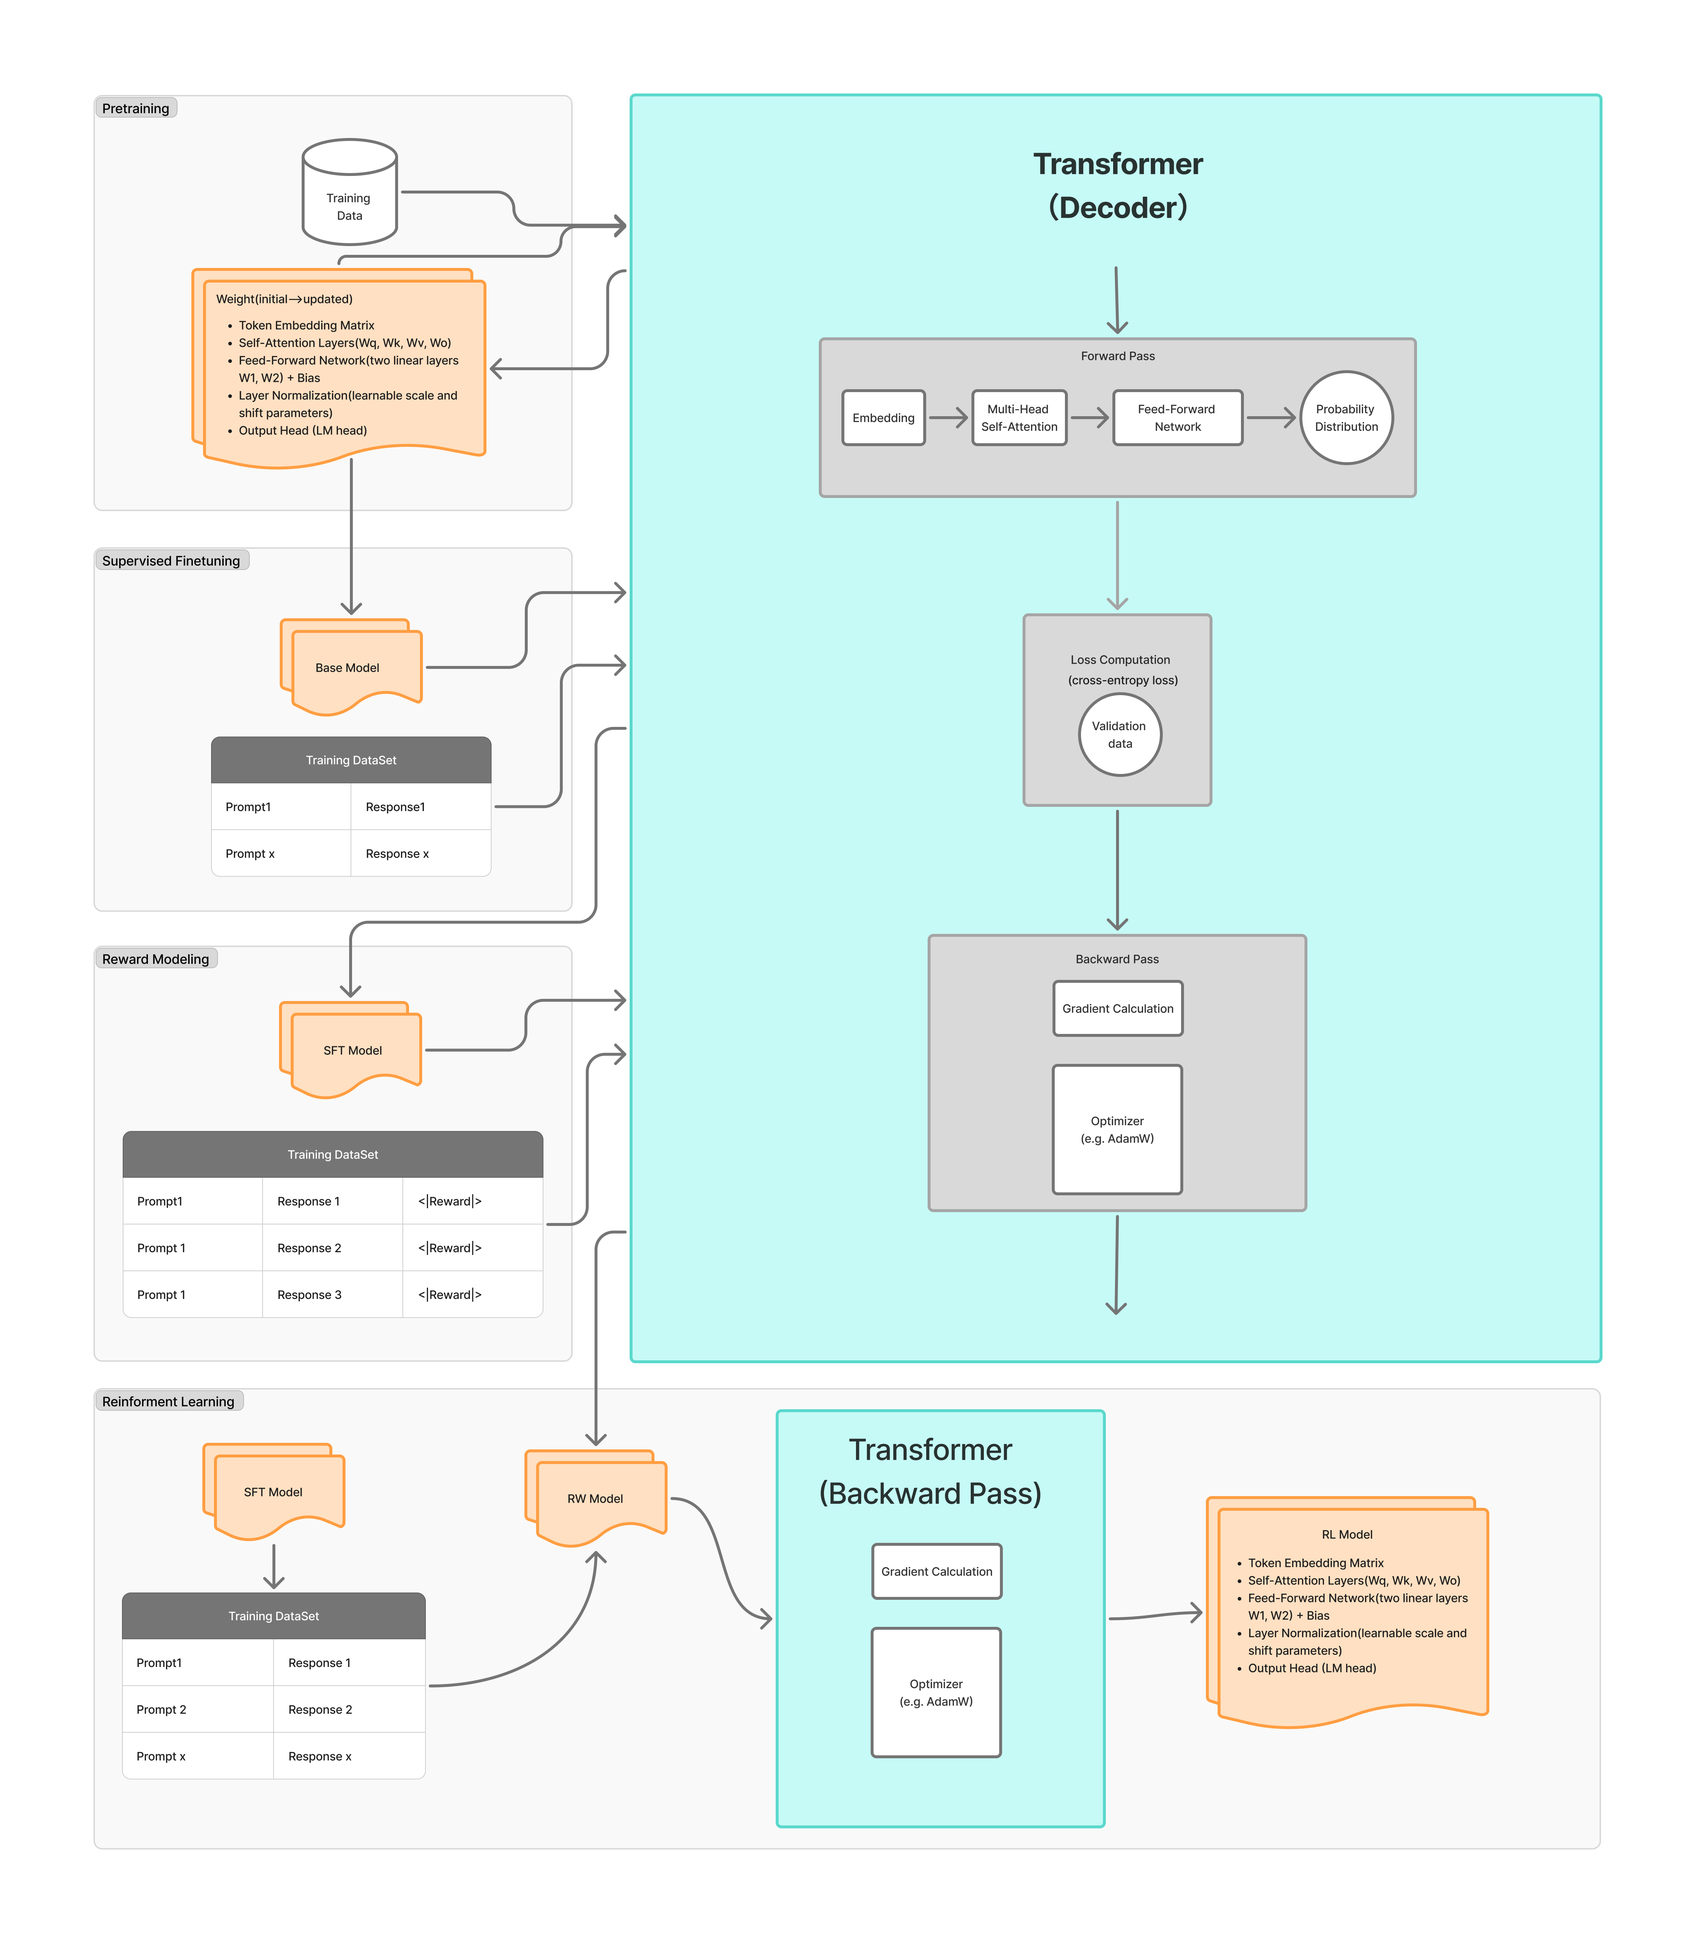
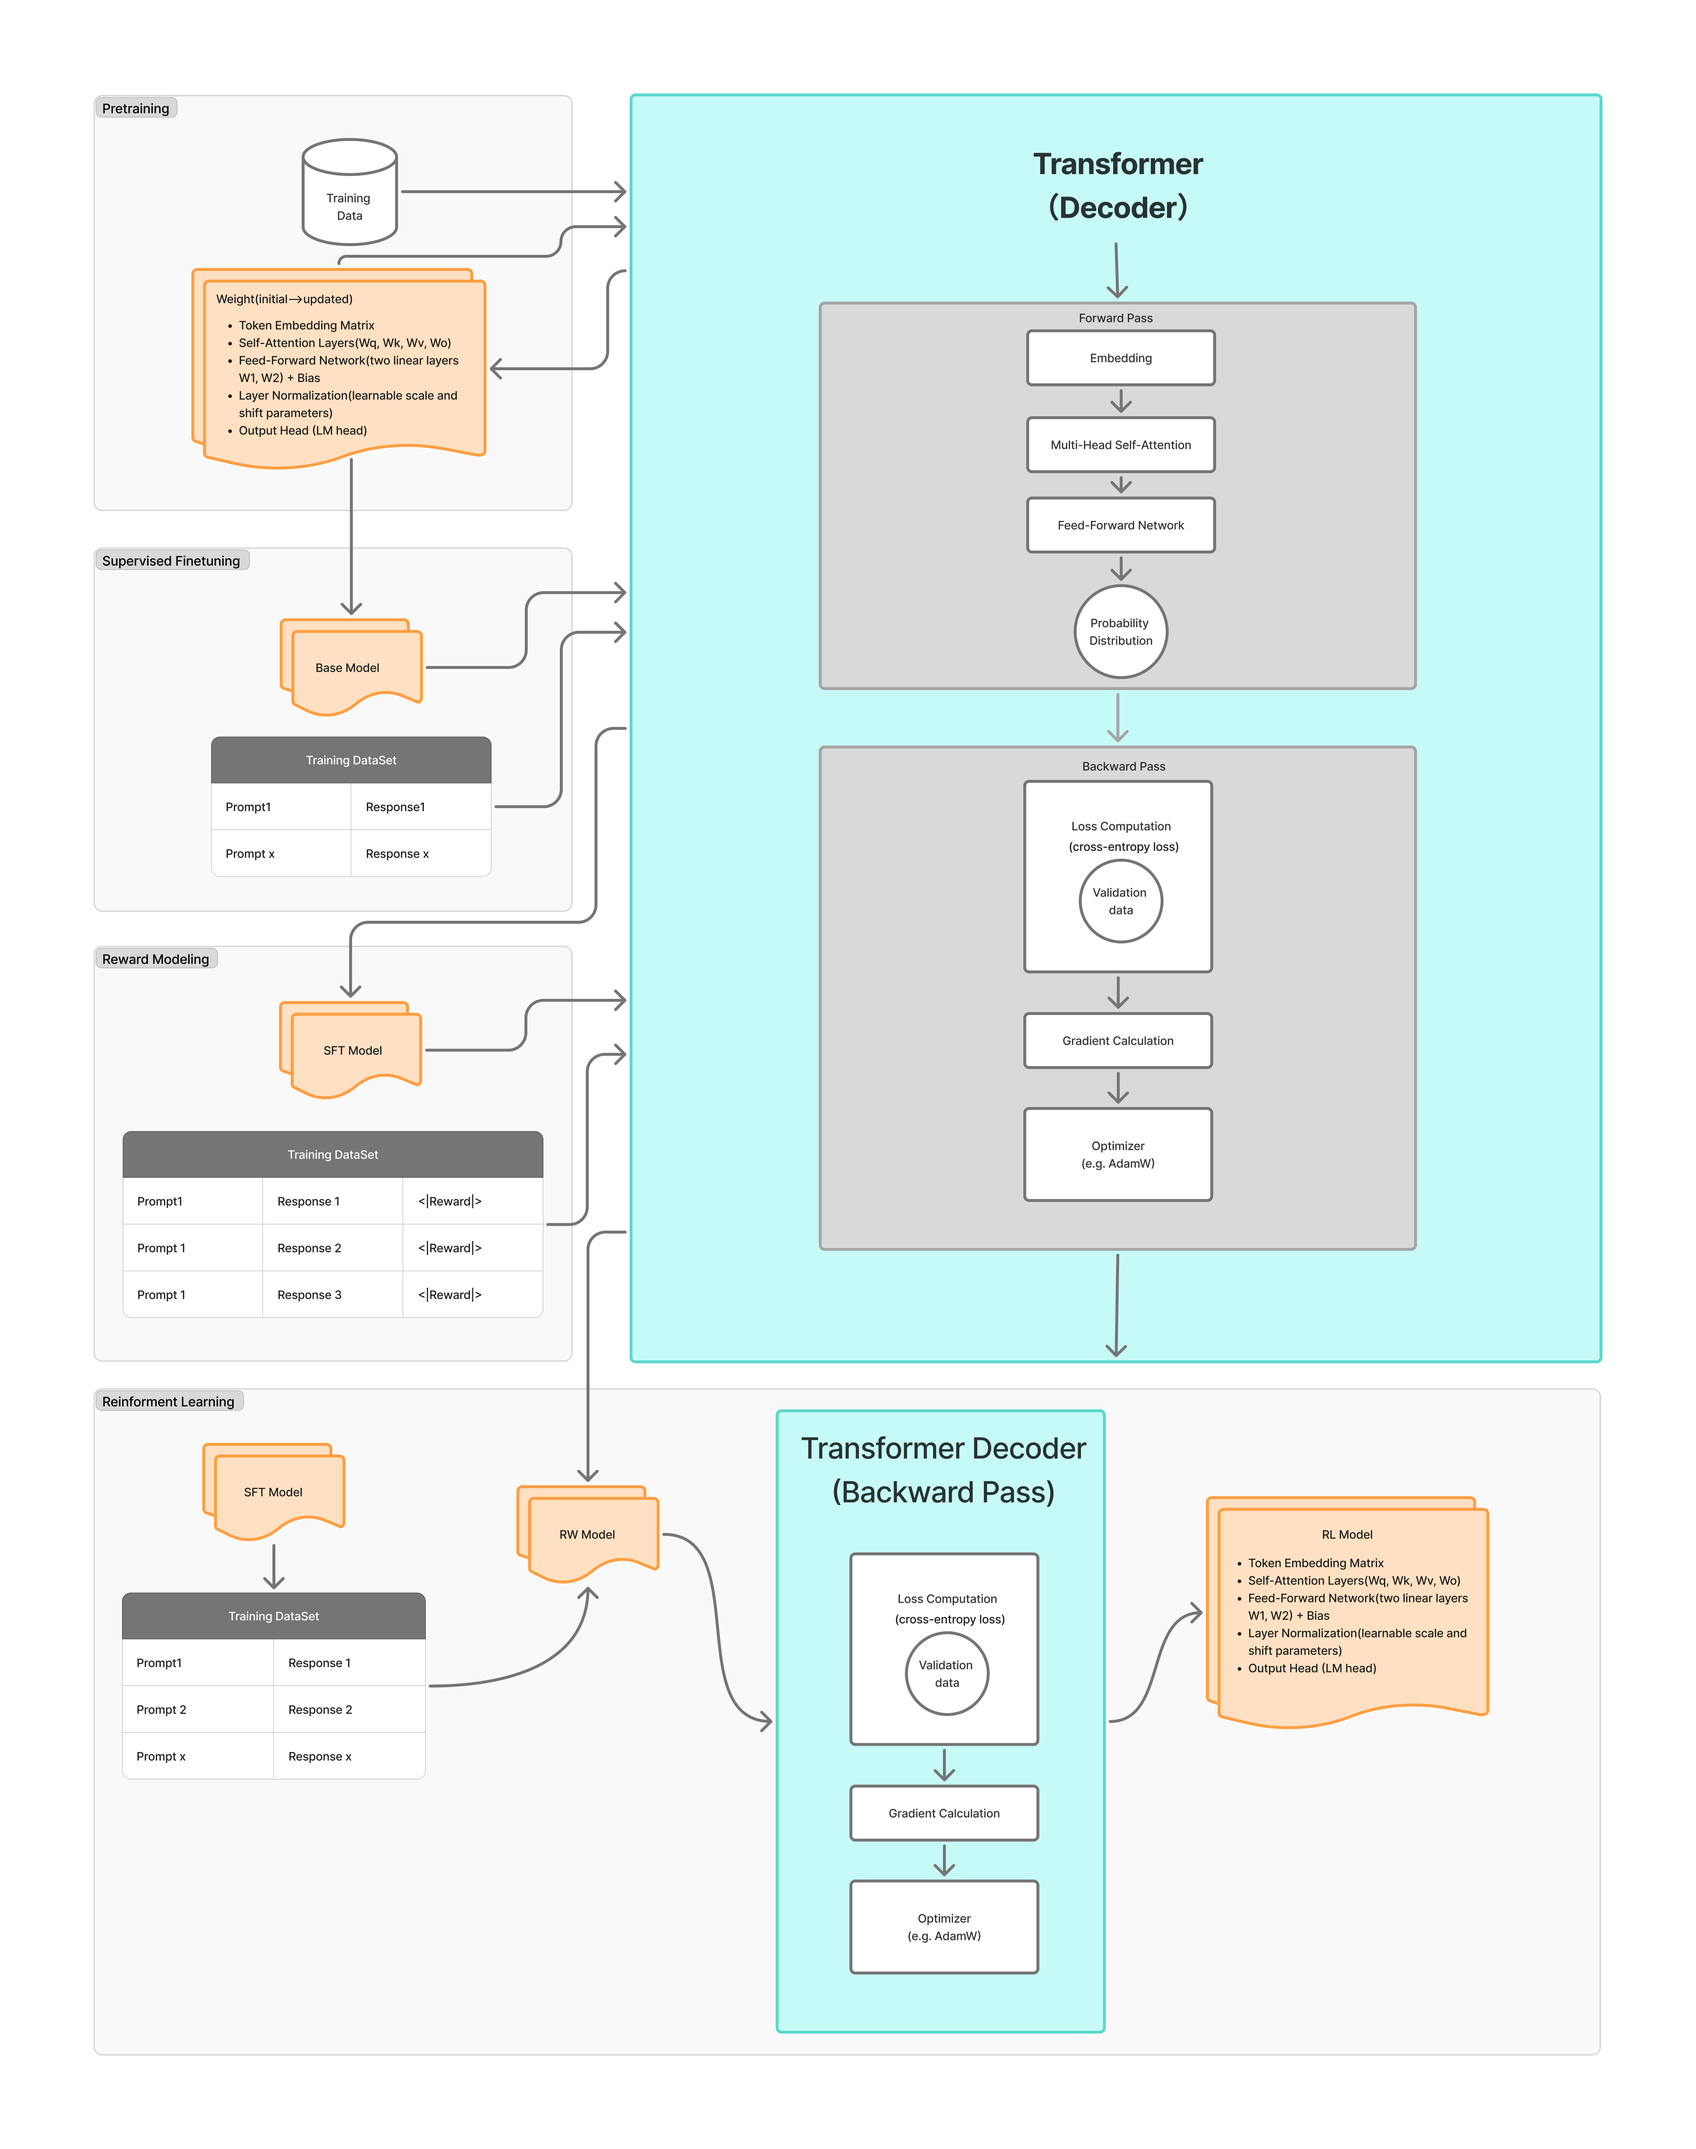
1

diff --git a/README.md b/README.md
@@ -12,6 +12,9 @@ Outline:
 
 <!-- ![](img\1.png) -->
 ![](https://chriszhu2050.github.io/images/1.png)
+### Forward pass
+### Backward pass
+
 
 ### Transformer
 Encoder
